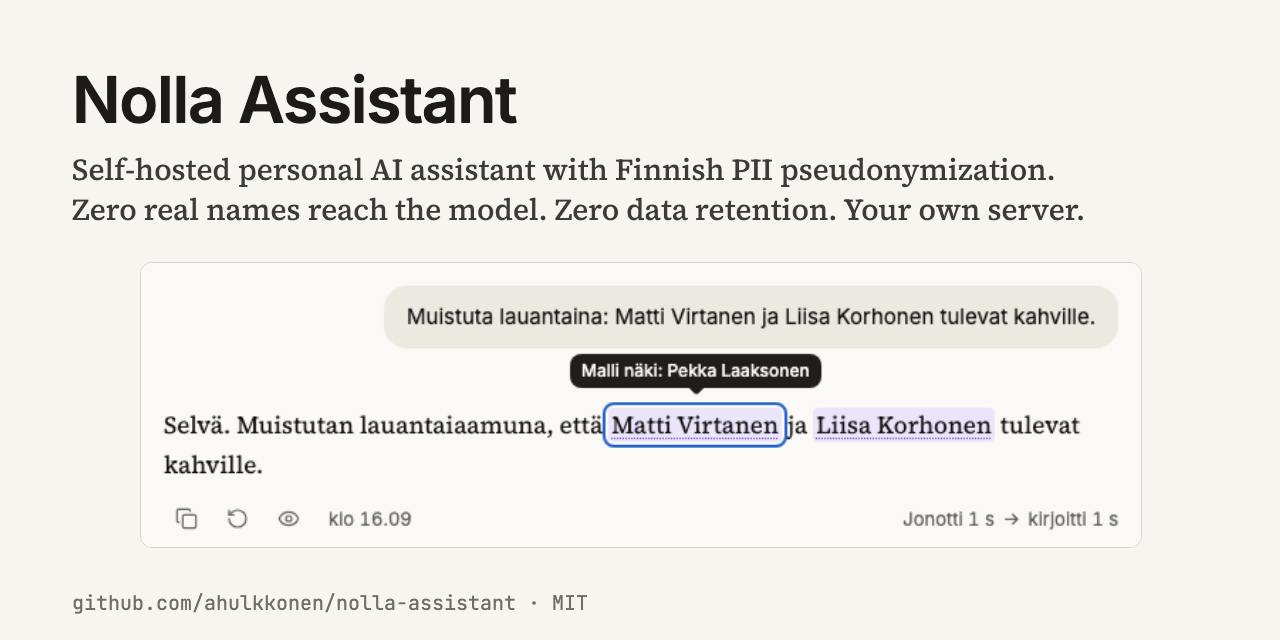
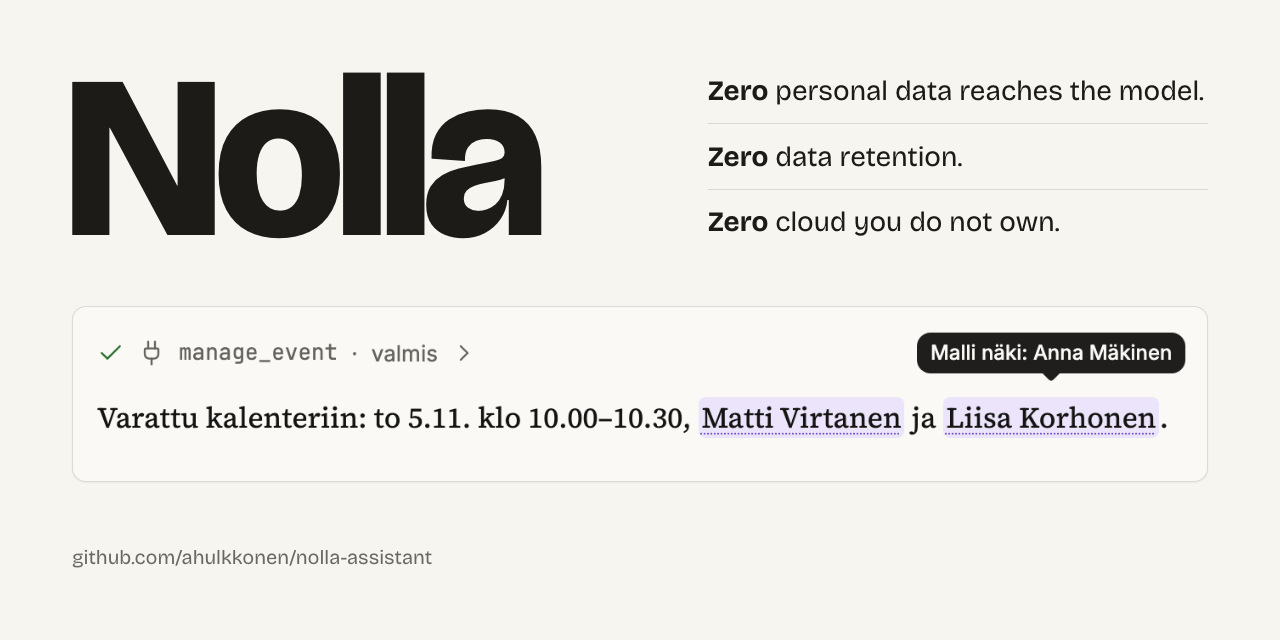
docs: calendar example as hero, social preview variant C
Tagline says "personal data", not "real names": names are one of eight
masked kinds. Old reminder shots removed.

diff --git a/docs/decisions/phase-32-readme.md b/docs/decisions/phase-32-readme.md
@@ -17,11 +17,22 @@ Date: 2026-10-31. Follows phase 31 (`phase-31-publication.md`).
    facts and a broken badge, round 2 one rounding error. The short form was written after both.
 4. **Threat model.** `docs/threat-model.md`, the note that plan §14 asked for. `docs/plan.md` got
    an "As built" section that lists where the built system differs from the plan text.
-5. **Name: `nolla-assistant`.** Nolla is Finnish for zero: zero real names reach the model, zero data
-   retention. The user chose it on 2026-10-31 from proposals by a Finnish-native designer agent,
+5. **Name: `nolla-assistant`.** Nolla is Finnish for zero: zero personal data reaches the model, zero
+   data retention. The user chose it on 2026-10-31 from proposals by a Finnish-native designer agent,
    Gemini 4 Argon and Grok 4.7 (through the stack's own LiteLLM). The H1 is "Nolla Assistant"; the in-app
    agent keeps the name Avustaja. The CI badge points at `ahulkkonen/nolla-assistant`.
    the CI badge line follows the name.
+
+6. **Hero example and social preview (2026-11-01).** The hero pair shows a calendar event through
+   the MCP approval gate (`masking-action.png`, `masking-action-model.png`): the reminder example of
+   the first version showed no tool at work. The shot runs through the fake Workspace MCP server of
+   `tests/mcp`, so the e2e fixture got an `mcp: true` option and `flows.spec.ts` a flow that checks
+   the card and the calendar get the real names while no model request does. Tool rows and approval
+   cards show an MCP tool without its `mcp__<server>__` prefix (`toolLabel` in `apps/web/src/thread.ts`).
+   The social preview is variant C of three (Bricolage Grotesque wordmark, the three zeros, the tool
+   row and reply at 1.7x); the HTML lives only in the session scratchpad. The tagline says "personal
+   data", not "real names", because names are one of eight masked kinds; the recall numbers that
+   qualify the word "zero" are in `docs/threat-model.md` section 5.
 
 ## Status
 

diff --git a/README.md b/README.md
@@ -2,7 +2,7 @@
 
 Aleksi Hulkkonen · built with Claude Code in seven days, 25 to 31 October 2026
 
-*Nolla* is Finnish for zero: zero real names reach the model, zero data retention, zero cloud you
+*Nolla* is Finnish for zero: zero personal data reaches the model, zero data retention, zero cloud you
 do not own.
 
 A self-hosted personal assistant for one person, built on the
@@ -13,11 +13,11 @@ proxy to OpenRouter endpoints with zero data retention (ZDR).
 
 [![ci](https://github.com/ahulkkonen/nolla-assistant/actions/workflows/ci.yml/badge.svg)](https://github.com/ahulkkonen/nolla-assistant/actions/workflows/ci.yml)
 
-![A reply that shows the real names Matti Virtanen and Liisa Korhonen in the user's message and in the reply, with a tooltip: the model saw Pekka Laaksonen](docs/media/masking-screen.png)
+![Your message names Matti Virtanen and Liisa Korhonen; the approved calendar tool ran; the reply shows the real names, with a tooltip: the model saw Anna Mäkinen](docs/media/masking-action.png)
 
-*On your screen: your message and the reply show the real names. A mark tells you what the model saw.*
+*On your screen: your message, the calendar tool that ran and the reply show the real names. A mark tells you what the model saw. The calendar got the real names too; no model request did.*
 
-![The same reply as the model wrote it, with the surrogates Pekka Laaksonen and Anna Mäkinen](docs/media/masking-model.png)
+![The same reply as the model wrote it, with the surrogates Pekka Laaksonen and Anna Mäkinen](docs/media/masking-action-model.png)
 
 *The reply as the model wrote it: realistic surrogates in place of the names.*
 

diff --git a/docs/overview.md b/docs/overview.md
@@ -7,11 +7,11 @@ egress.**
 
 Aleksi Hulkkonen · built with Claude Code in seven days, 25 to 31 October 2026
 
-![A reply that shows the real names Matti Virtanen and Liisa Korhonen in the user's message and in the reply, with a tooltip: the model saw Pekka Laaksonen](media/masking-screen.png)
+![Your message names Matti Virtanen and Liisa Korhonen; the approved calendar tool ran; the reply shows the real names, with a tooltip: the model saw Anna Mäkinen](media/masking-action.png)
 
-*On your screen: your message and the reply show the real names. A mark tells you what the model saw.*
+*On your screen: your message, the calendar tool that ran and the reply show the real names. A mark tells you what the model saw. The calendar got the real names too; no model request did.*
 
-![The same reply as the model wrote it, with the surrogates Pekka Laaksonen and Anna Mäkinen](media/masking-model.png)
+![The same reply as the model wrote it, with the surrogates Pekka Laaksonen and Anna Mäkinen](media/masking-action-model.png)
 
 *The reply as the model wrote it: realistic surrogates in place of the names. A switch in the app
 shows this view.*
